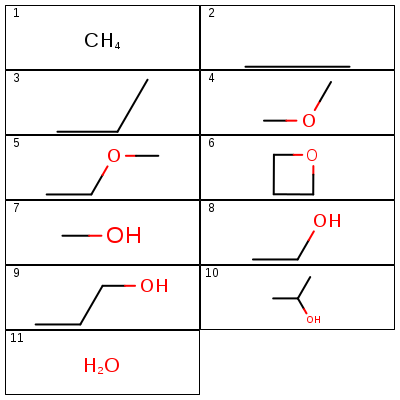
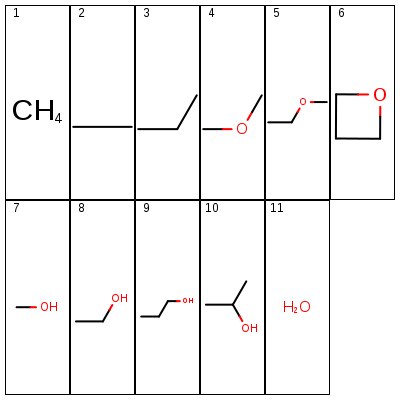
make XSEDE grant figure smaller

diff --git a/single-molecule-property-generation/figs_for_XSEDE2017/make_figs_oemol.py b/single-molecule-property-generation/figs_for_XSEDE2017/make_figs_oemol.py
@@ -12,7 +12,7 @@ smiles = ["C","CC","CCC","COC","CCOC","C1COC1","CO","CCO","CCCO","CC(C)O","O"]
 
 image = OEImage(400, 400)
 
-rows, cols = 6, 2
+rows, cols = 2, 6
 grid = OEImageGrid(image, rows, cols)
 grid.SetMargins(5)
 
